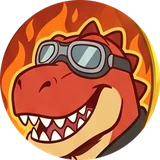
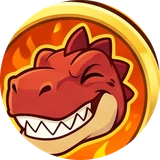
Kart Race: new racer portraits; coin fixes (one coin per hard wall hit, none after the finish, coin bonus on boosts and the red line)
Claude-Session: https://claude.ai/code/session_01MC4zuKXFaCxVKkwqiM8kVR

diff --git a/server/games/kart-race.js b/server/games/kart-race.js
@@ -100,9 +100,10 @@ export const TRACKS = [
 
 /**
  * Coins: each one you hold (up to `max`) adds `perCoin` to your top speed. A spin-out costs
- * `spinLoss` of them, a head-on hit on a wall `wallLoss`. A collected coin comes back later.
+ * `spinLoss` of them, a hard head-on hit on a wall (at `wallHitSpeed` or more) `wallLoss`, at most
+ * once every `wallLossMs` (nudging along a wall costs nothing). A collected coin comes back later.
  */
-export const COINS = { max: 15, perCoin: 0.05, r: 0.35, respawnMs: 8000, spinLoss: 3, wallLoss: 1, spacing: 0.6 };
+export const COINS = { max: 15, perCoin: 0.05, r: 0.35, respawnMs: 8000, spinLoss: 3, wallLoss: 1, spacing: 0.6, wallHitSpeed: 3, wallLossMs: 1500 };
 
 /**
  * Items. Rows of ? boxes at these points of every lap; a box gives you an
@@ -312,7 +313,7 @@ export class KartRace {
     k.offTrack = where.d > TRACK_WIDTH / 2;
     const boosting = now < k.boostUntil;
     const car = k.car;
-    const bonus = k.coins * COINS.perCoin; // every coin held: a little faster
+    const bonus = this.coinBonus(k);
     const top = boosting ? car.boostSpeed + bonus : k.offTrack ? car.grassSpeed : car.maxSpeed + bonus;
     const toward = (v, target, rate) => (v > target ? Math.max(target, v - rate * dt) : Math.min(target, v + rate * dt));
     if (k.finishedAt !== null) {
@@ -354,7 +355,7 @@ export class KartRace {
         if (k.speed >= 0 && Math.hypot(k.x - pad.x, k.y - pad.y) < 0.9 && now >= k.boostUntil - KART.boostMs + 300) {
           if (now >= k.boostUntil) this.events.boosts++;
           k.boostUntil = now + KART.boostMs;
-          k.speed = Math.max(k.speed, k.car.boostSpeed);
+          k.speed = Math.max(k.speed, k.car.boostSpeed + this.coinBonus(k));
         }
       }
     }
@@ -374,7 +375,7 @@ export class KartRace {
     }
     if (k.drifting && k.driftMs >= KART.driftChargeMs && !k.drift && now >= k.spinUntil && k.finishedAt === null) {
       k.boostUntil = Math.max(k.boostUntil, now + KART.miniBoostMs);
-      k.speed = Math.max(k.speed, k.car.maxSpeed + 1.5);
+      k.speed = Math.max(k.speed, k.car.maxSpeed + this.coinBonus(k) + 1.5);
       this.events.miniBoosts++;
     }
     k.drifting = false;
@@ -429,8 +430,13 @@ export class KartRace {
     if (into <= 0) return; // already moving away
     this.events.walls++;
     if (into > WALL.headOn) {
+      const hard = Math.abs(k.speed) >= COINS.wallHitSpeed;
       k.speed = -k.speed * WALL.bounce; // bounce back off it
-      this.loseCoins(k, COINS.wallLoss);
+      const now = this.ctx.now();
+      if (hard && now >= (k.wallLossAt || 0) + COINS.wallLossMs) {
+        k.wallLossAt = now;
+        this.loseCoins(k, COINS.wallLoss);
+      }
       k.drifting = false;
       return;
     }
@@ -480,8 +486,14 @@ export class KartRace {
     return 'turbo';
   }
 
+  /** How much faster a kart's coins make it. */
+  coinBonus(k) {
+    return k.coins * COINS.perCoin;
+  }
+
   /** Pick up any coins the kart is touching (if it has room). */
   coinCheck(k, now) {
+    if (k.finishedAt !== null) return; // over the line: leave them for the kart still racing
     for (const c of this.coins) {
       if (k.coins >= COINS.max) return;
       if (now < c.backAt || Math.hypot(k.x - c.x, k.y - c.y) > COINS.r + KART.r) continue;
@@ -504,7 +516,7 @@ export class KartRace {
     const now = this.ctx.now();
     if (k.item === 'turbo') {
       k.boostUntil = now + ITEMS.turboMs;
-      k.speed = Math.max(k.speed, k.car.boostSpeed);
+      k.speed = Math.max(k.speed, k.car.boostSpeed + this.coinBonus(k));
     } else if (k.item === 'shield') {
       k.shieldUntil = now + ITEMS.shieldMs;
     } else if (k.item === 'banana') {
@@ -690,7 +702,7 @@ export class KartRace {
             racer: k.racer,
             tyre: k.tyre,
             coins: k.coins,
-            top: k.car.maxSpeed, // this kart's top speed (its speedometer's red line)
+            top: k.car.maxSpeed + k.coins * COINS.perCoin, // this kart's top speed (its speedometer's red line)
             drifting: k.drifting,
             driftCharge: k.drifting ? Math.min(1, k.driftMs / KART.driftChargeMs) : 0,
             lapMs: this.raceStart && k.finishedAt === null ? Math.max(0, now - this.raceStart - k.lapStart) : null,

diff --git a/test/kart-race.test.js b/test/kart-race.test.js
@@ -644,3 +644,30 @@ test('coins: a spin-out costs 3 (never below 0), a head-on wall hit costs 1', ()
   ctx.advance(TICK * 4);
   assert.equal(k.coins, 3, 'head-on wall hit: -1');
 });
+
+test('coins: pressing into a wall costs one coin, not the whole purse; finished karts take none', () => {
+  const { ctx, game } = racing();
+  const [k, other] = game.karts;
+  other.x = -50;
+  k.coins = 10;
+  const p = pointAt(game.track, 0.1);
+  const nx = -Math.sin(p.angle);
+  const ny = Math.cos(p.angle);
+  const limit = TRACK_WIDTH / 2 + WALL.out - KART.r;
+  Object.assign(k, { x: p.x + nx * (limit - 0.3), y: p.y + ny * (limit - 0.3), angle: Math.atan2(ny, nx), speed: KART.maxSpeed, progress: 0.1, seg: Math.round(0.1 * SAMPLES) });
+  game.onInput(0, { type: 'drive', steer: 0, gas: true });
+  ctx.advance(1000); // nose against the wall, foot down
+  assert.ok(k.coins >= 9, `one hard hit, not a drain (${k.coins} left)`);
+  game.onInput(0, { type: 'drive', steer: 0, brake: true });
+  ctx.advance(1500); // and reversing back into it
+  assert.ok(k.coins >= 8, `reversing into it, then nudging (${k.coins} left)`);
+  // The view's red line includes the coin bonus.
+  assert.ok(Math.abs(game.hostView().karts[0].top - (8.5 + k.coins * COINS.perCoin)) < 1e-9);
+  // Over the line: no more coins (they're left for the kart still racing).
+  game.finishLine(0, ctx.now());
+  const c = game.coins.find((x) => x.backAt <= ctx.now());
+  const had = k.coins;
+  Object.assign(k, { x: c.x, y: c.y, speed: 0 });
+  ctx.advance(TICK);
+  assert.equal(k.coins, had);
+});

diff --git a/public/games/kart-race/host.js b/public/games/kart-race/host.js
@@ -370,7 +370,6 @@
     });
   }
 
-  /** ? boxes, spinning gently in rainbow colours, and the bananas on the road. */
   /** Coins: gold discs, squashed side to side so they look like they're spinning. */
   function drawCoins(g, v, now) {
     (v.coins || []).forEach(function (c, i) {
@@ -392,6 +391,7 @@
     });
   }
 
+  /** ? boxes, spinning gently in rainbow colours, and the bananas on the road. */
   function drawBoxes(g, v, now) {
     v.boxes.forEach(function (b, i) {
       g.save();
